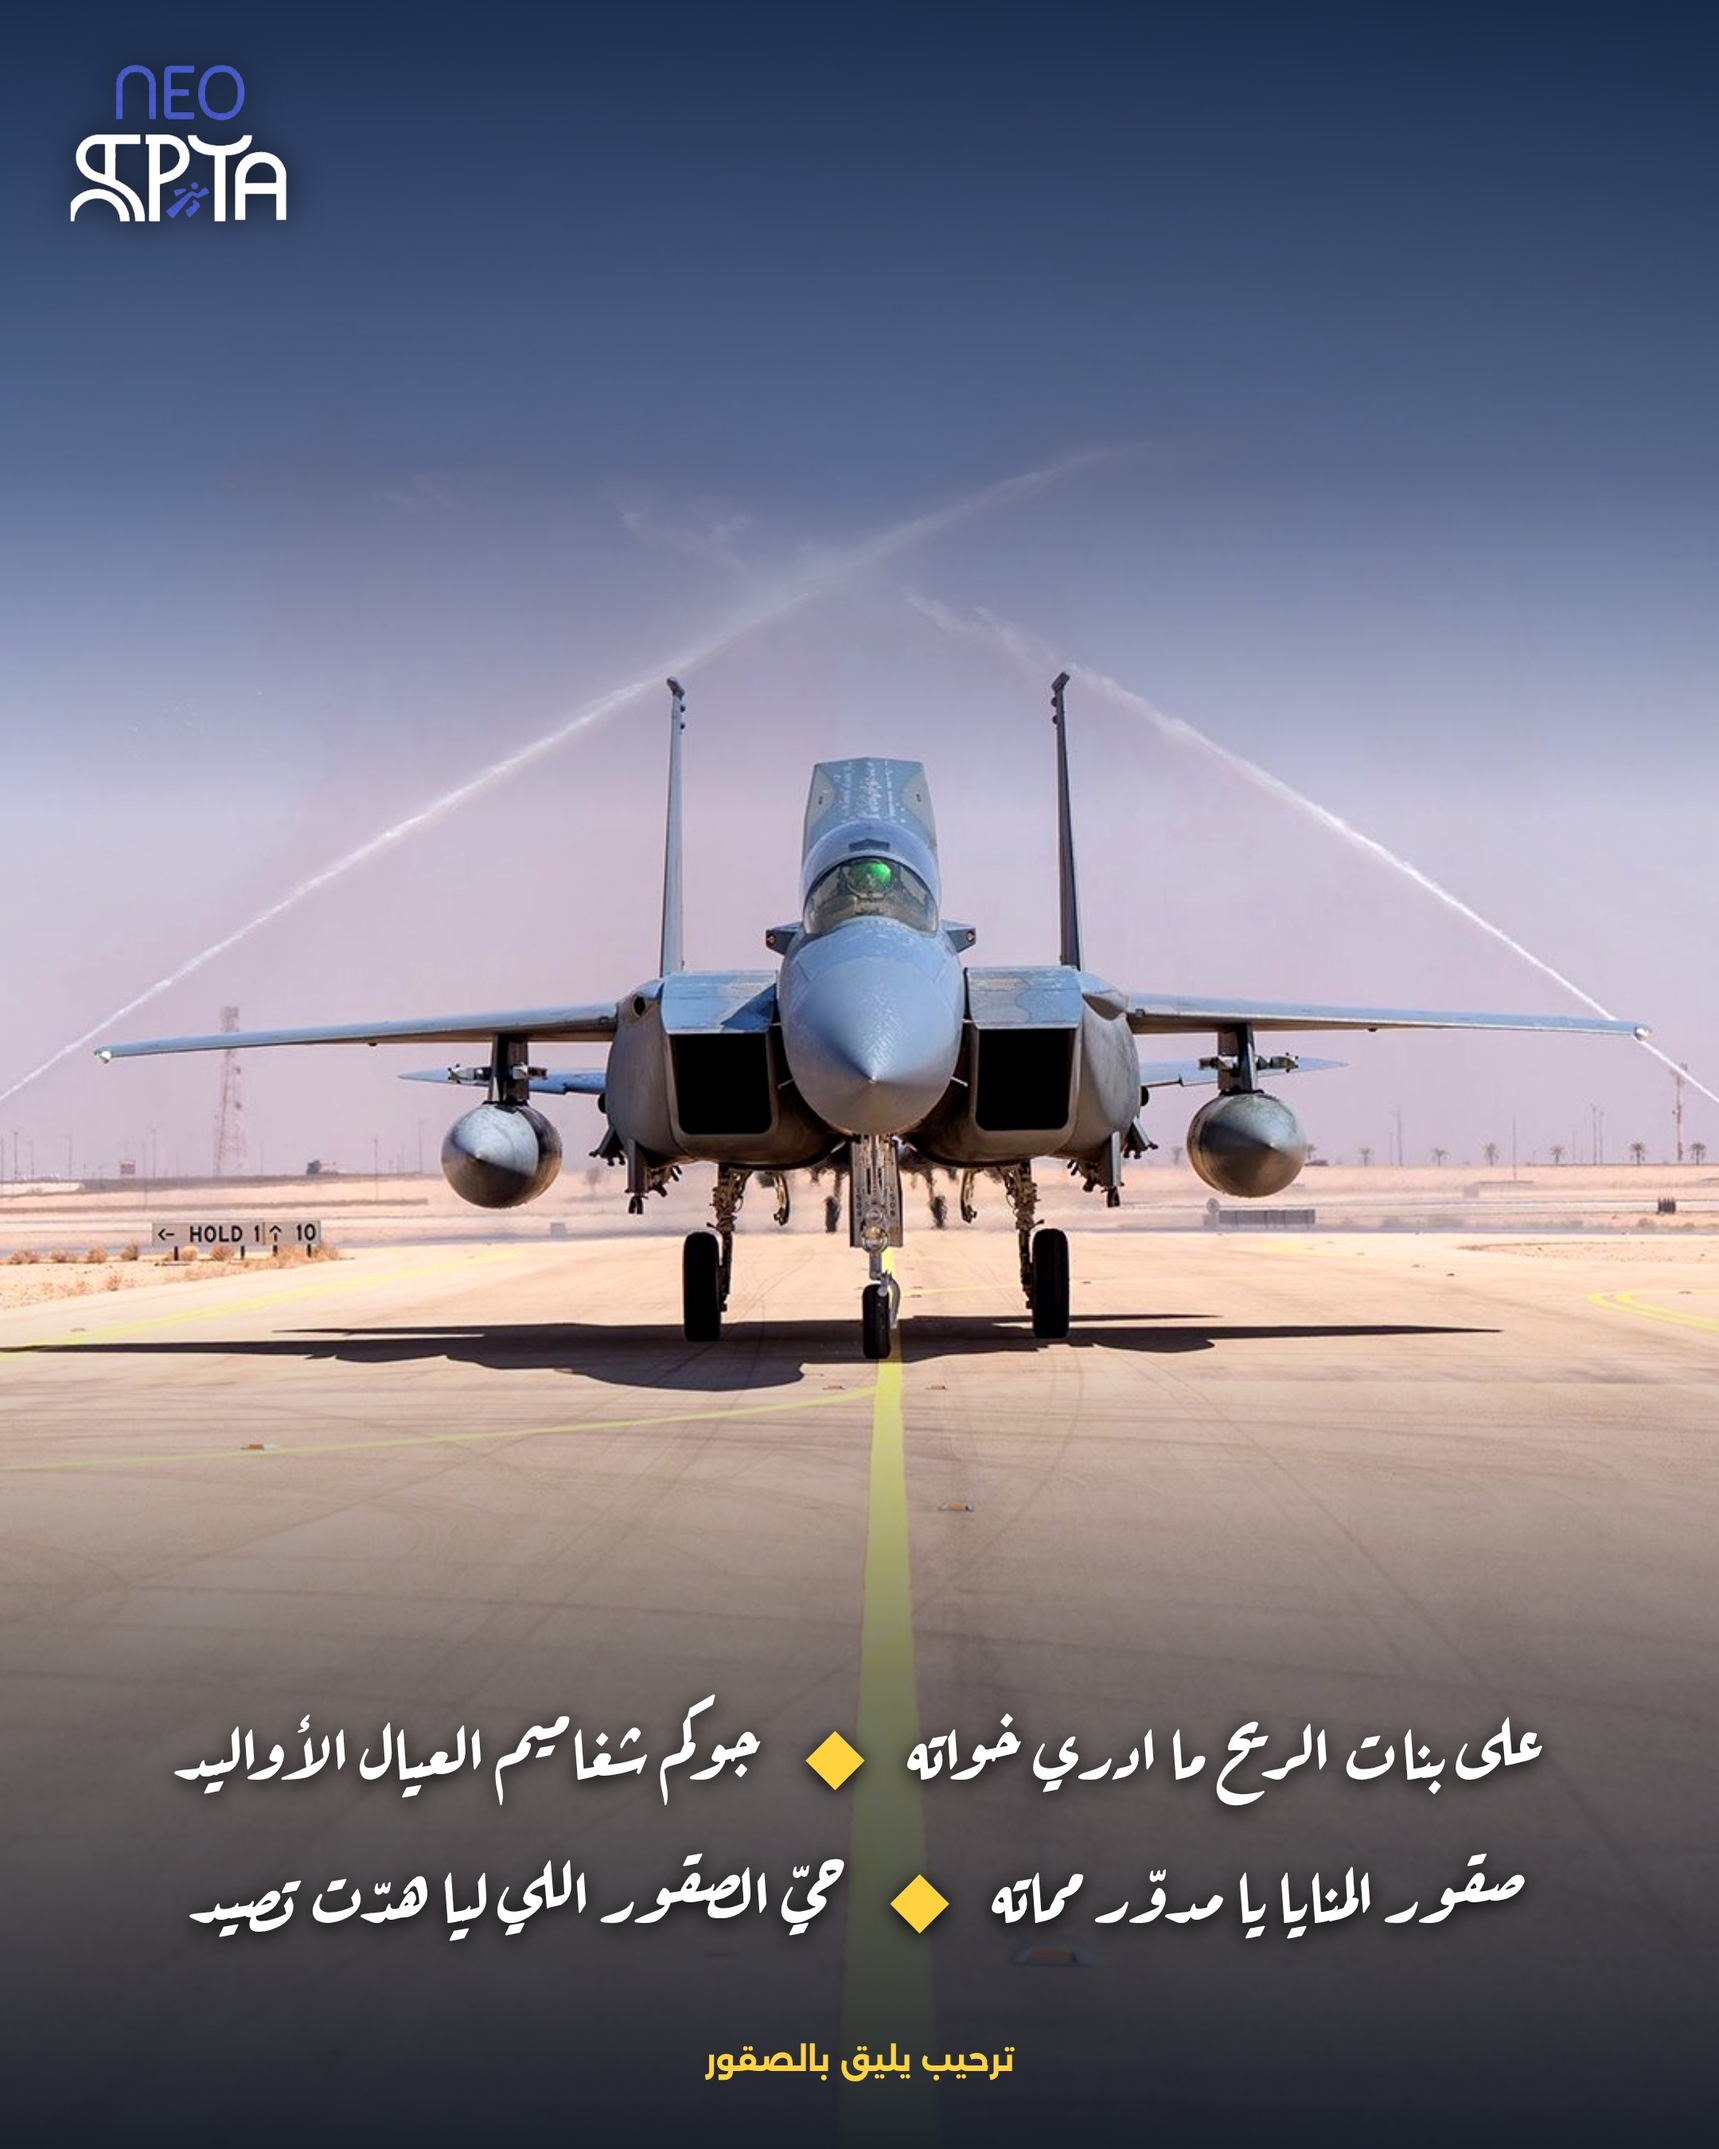
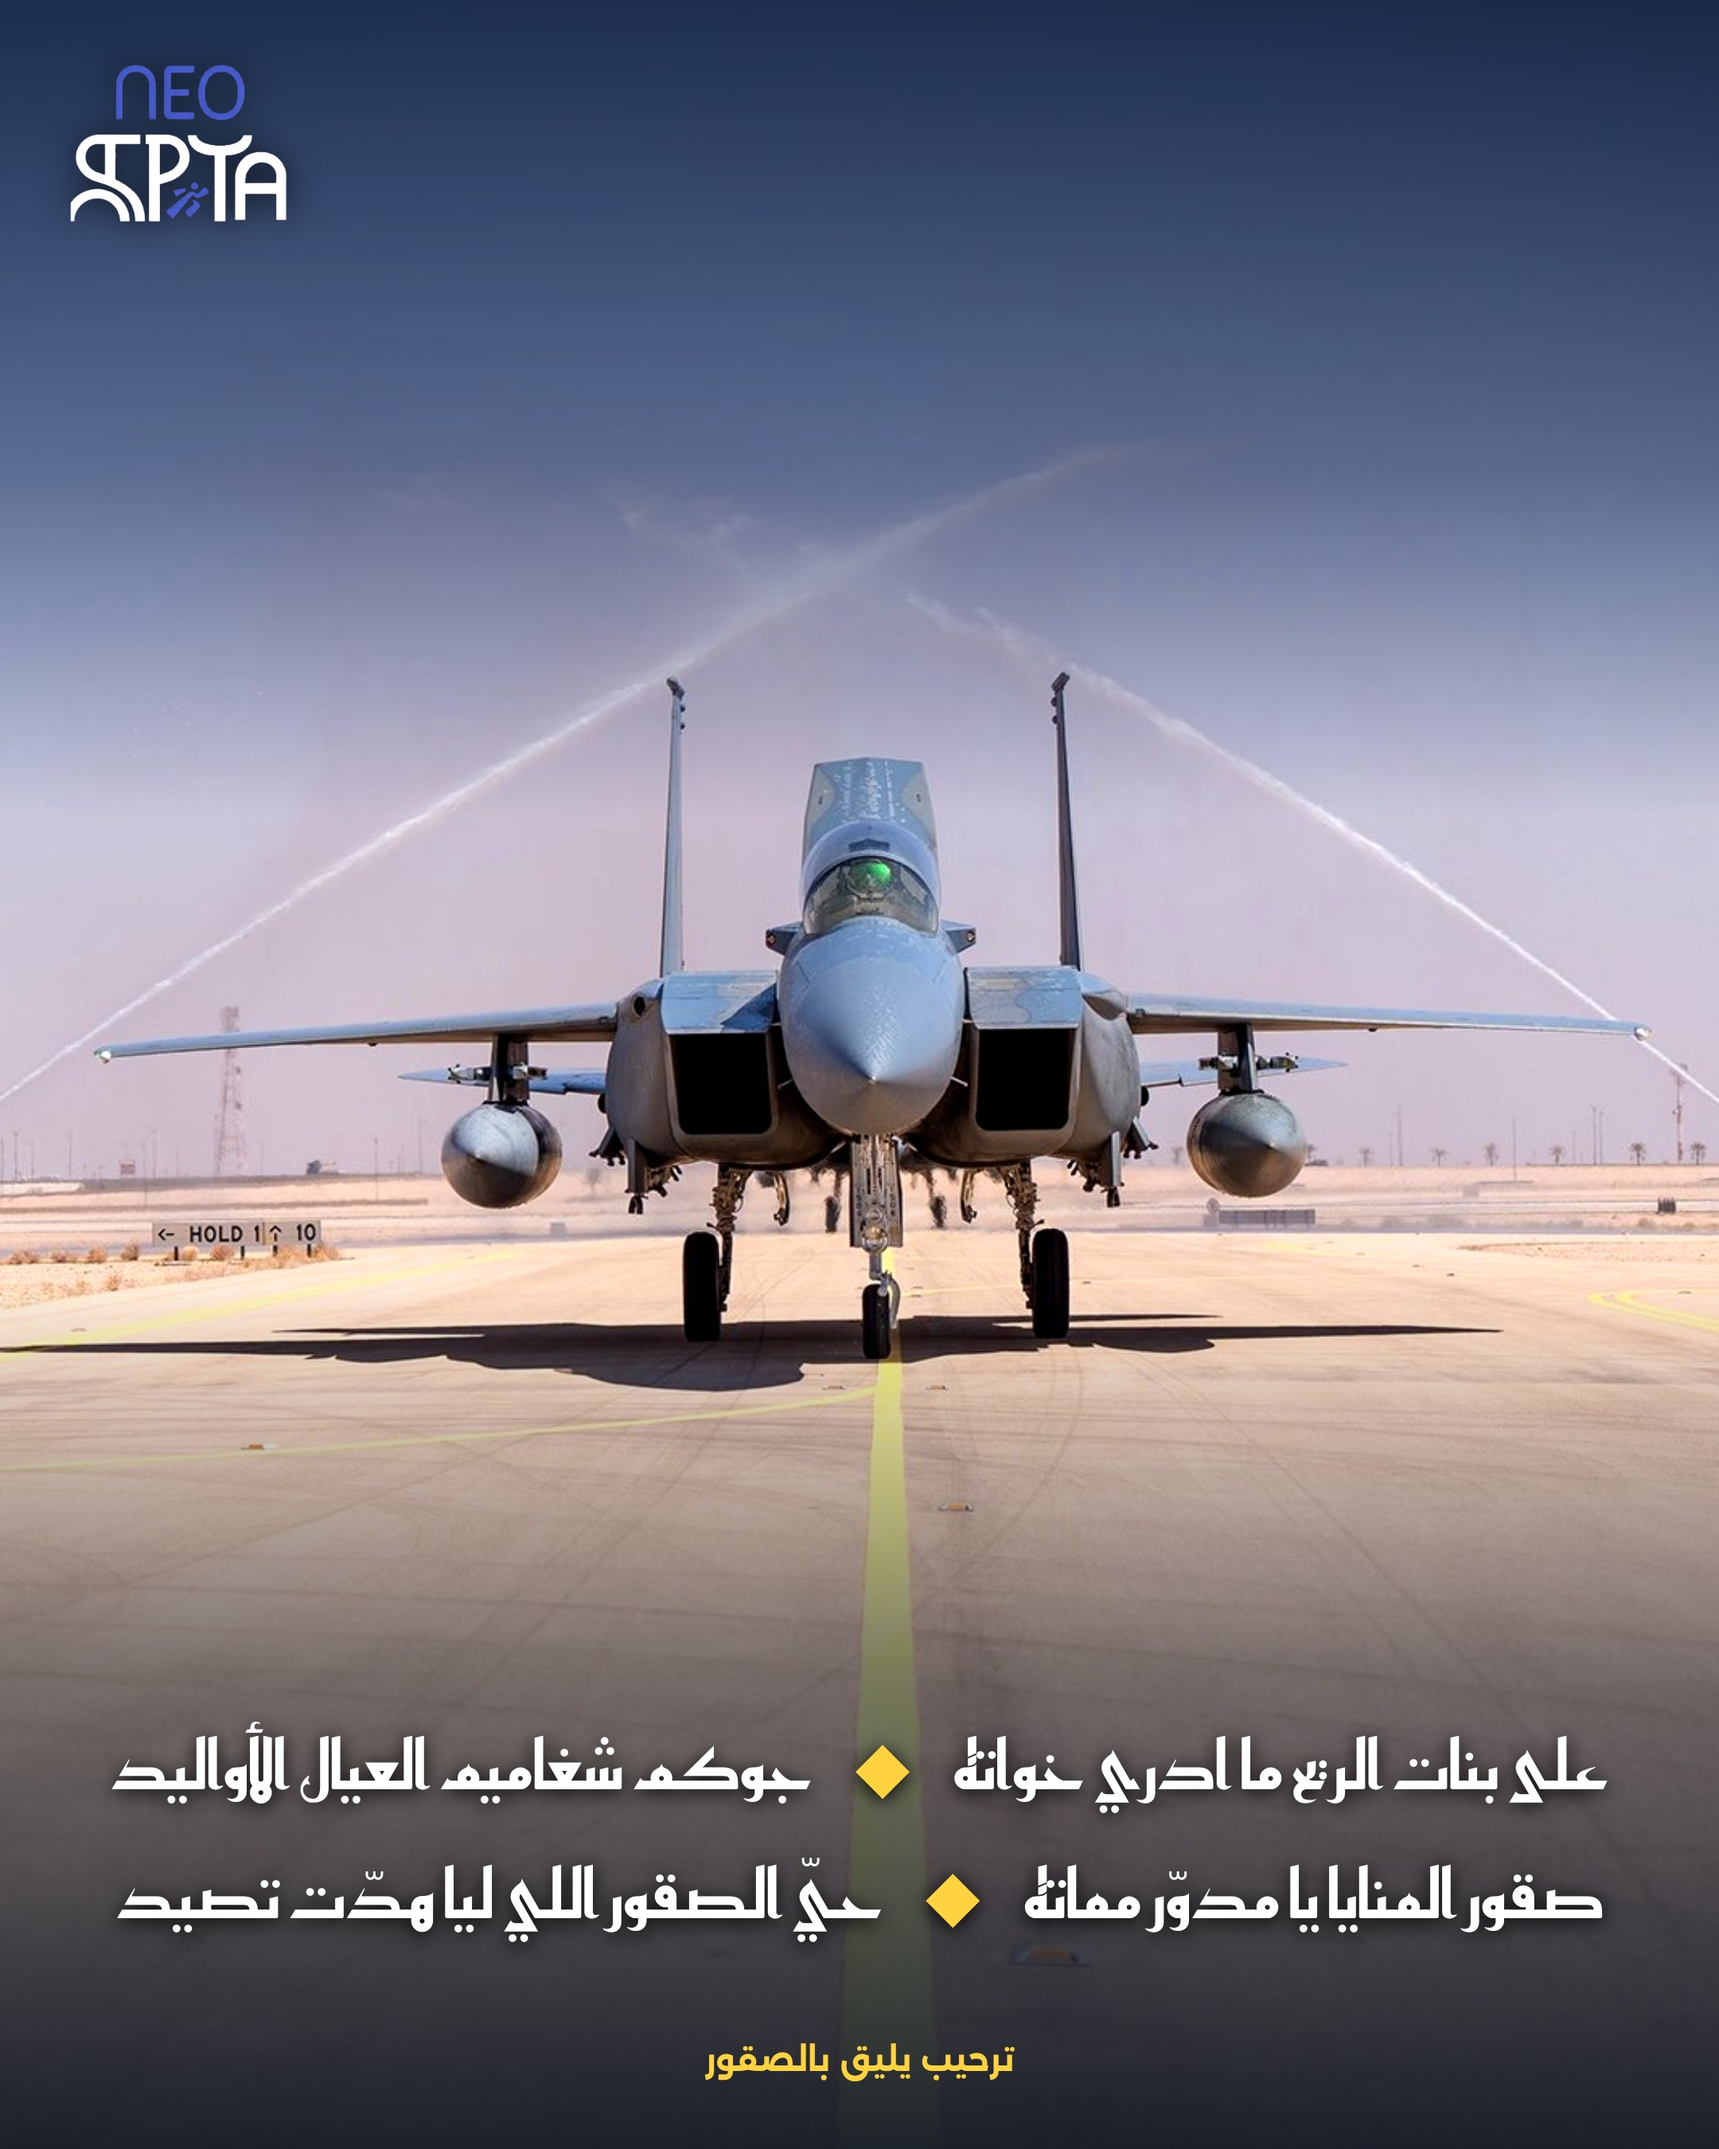
Switch F-15 design poem font to Reem Kufi
Claude-Session: https://claude.ai/code/session_01DnCVLqpuxJYintuVExwKxD

Changed region(s): [[0.062, 0.7778, 0.9306, 0.9022]]

diff --git a/poster/d3-f15.html b/poster/d3-f15.html
@@ -1,5 +1,5 @@
 <!doctype html><html lang="ar" dir="rtl"><head><meta charset="utf-8">
-<link href="https://fonts.googleapis.com/css2?family=Aref+Ruqaa:wght@400;700&family=Aref+Ruqaa:wght@700&family=Amiri:wght@700&family=Alexandria:wght@500;700&display=block" rel="stylesheet">
+<link href="https://fonts.googleapis.com/css2?family=Reem+Kufi:wght@600;700&family=Aref+Ruqaa:wght@700&family=Amiri:wght@700&family=Alexandria:wght@500;700&display=block" rel="stylesheet">
 <style>
 *{margin:0;padding:0;box-sizing:border-box}
 html,body{width:1080px;height:1350px;background:#8fa6c8;overflow:hidden}
@@ -11,7 +11,7 @@ html,body{width:1080px;height:1350px;background:#8fa6c8;overflow:hidden}
 .neo{position:absolute;top:40px;left:44px;height:100px;z-index:5;filter:brightness(1.3) drop-shadow(0 0 10px rgba(0,0,0,.8))}
 .title{position:absolute;top:95px;left:0;right:0;text-align:center;z-index:5;font-family:'Aref Ruqaa';font-weight:700;font-size:138px;color:#fff;text-shadow:0 6px 30px rgba(0,20,60,.7)}
 .sub{position:absolute;top:350px;left:0;right:0;text-align:center;z-index:5;font-family:Alexandria;font-weight:500;font-size:22px;letter-spacing:4px;color:#d8e4f5}
-.poem{position:absolute;bottom:110px;left:0;right:0;z-index:5;font-family:'Aref Ruqaa';font-weight:700;color:#fff;font-size:46px;text-shadow:0 2px 12px #000}
+.poem{position:absolute;bottom:110px;left:0;right:0;z-index:5;font-family:'Reem Kufi';font-weight:600;color:#fff;font-size:42px;text-shadow:0 2px 12px #000}
 .v{display:flex;justify-content:center;gap:28px;margin-bottom:18px}
 .v i{font-style:normal;color:#ffd23f}
 .foot{position:absolute;bottom:44px;left:0;right:0;text-align:center;z-index:5;font-family:Alexandria;font-weight:700;font-size:20px;color:#ffd23f;letter-spacing:1px}
